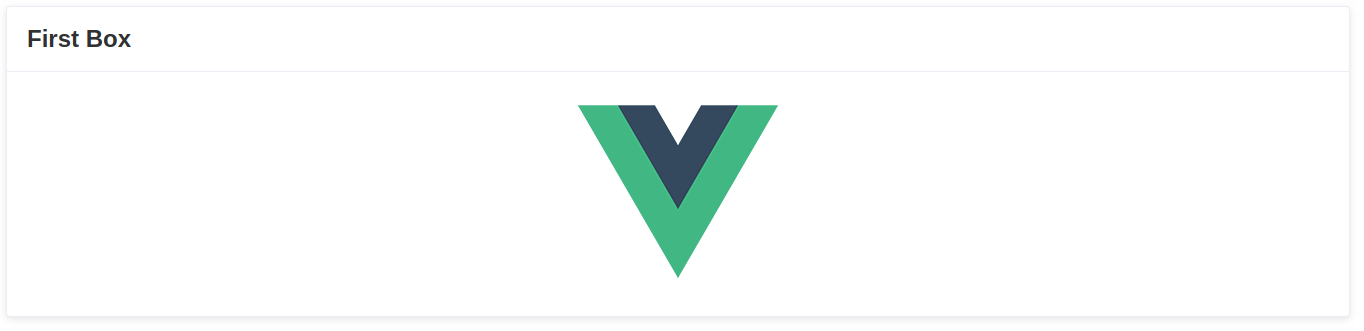
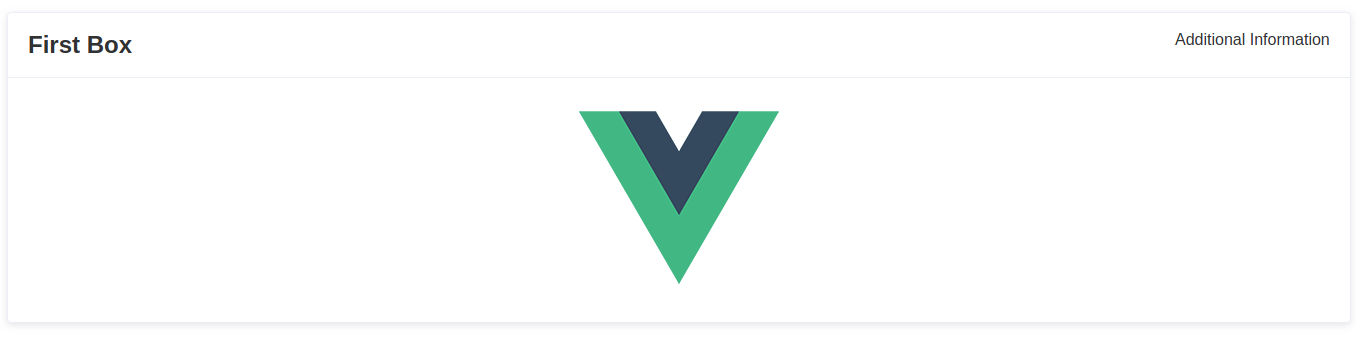
add slots to documentation

diff --git a/src/App.vue b/src/App.vue
@@ -3,6 +3,9 @@
     <VcAFrame title="Page Frame">
       <VcAColumn size="90%">
         <VcABox :first="true" title="First Box">
+          <template slot="header">
+            Additional Information
+          </template>
           <img alt="Vue logo" src="./assets/logo.png">
         </VcABox>
         <VcABox title="Second Box">

diff --git a/README.md b/README.md
@@ -26,6 +26,10 @@ You can use it that way (the `:` as prefix of an attribute is a vue.js syntax to
 | `title` | String | optional | *No default value* | You can pass an optional title. It will be used as a `<h1>` tag at the top-center position of the page. |
 | `hasContainer` | Boolean | optional | `false` | Sometimes it is required to wrap your [VcA columns](#vca-column) in additional HTML tags. For example, if you have an HTML `form` comprising elements on multiple columns. In that case you have to pass `true` as value of this parameter. |
 
+| Slot | Position | Description |
+|------|----------|-------------|
+| *default* | ![](./public/images/screenshot_mark_default.png) | Contains all [columns](#vca-column) of the page. |
+
 ### VcA Column
 Columns organize the [VcA boxes](#vca-box) in a vertical order. 
 
@@ -42,6 +46,10 @@ You can use it that way:
 |-----------|------|----------|---------|-------------|
 | `size` | String | optional | `30%` | If you want to change the default width, you can pass a new width using the `size` paramater. Values consist of a number and an unit. |
 
+| Slot | Position | Description |
+|------|----------|-------------|
+| *default* | *see example image* | Contains all [boxes](#vca-box) of the column. |
+
 ### VcA Box
 Boxes contain the main content of a Pool² page. They can be used for any kind of content and help you to cluster your
 information and functions. Please try to develop a small concept how you want to use these boxes, since the usage of boxes 
@@ -52,6 +60,9 @@ will influence the usability of your microservice and thus, of the whole Pool².
 You can use it that way (all attribute values are random examples):
 ```xml
 <VcABox :first="true" title="Headline" :expand="true" className="vca-blue-background vca-more-shadow">
+    <template slot="header">
+        ...
+    </template>
     ...
 </VcABox>
 ```
@@ -62,6 +73,12 @@ You can use it that way (all attribute values are random examples):
 | `title` | String | optional | *No default value* | You can pass an optional title. It will be used as a `<h2>` tag at the top-left corner of the box. |
 | `expand` | Boolean | optional | `false` | Indicates, size should expand to all unused space of the column. |
 | `className` | Boolean | optional | *No default value* | You can pass additional class names to apply your own CSS styles to the box. |
+
+| Slot | Position | Description |
+|------|----------|-------------|
+| *default* | ![](./public/images/box_mark_default.png) | Contains the main content |
+| header | ![](./public/images/box_mark_header.png) | Could be used for small additional information (e.g. tags) or important functions |
+
 
 ### VcA Info Box
 This box will be used to raise the users attention and inform the user about important facts.
@@ -75,6 +92,10 @@ You can use it that way:
 </VcAInfoBox>
 ```
 *There are no parameters for this widget*
+
+| Slot | Position | Description |
+|------|----------|-------------|
+| *default* | *see example image* | Contains the information to show. |
 
 ### VcA Filter Tag
 Tags can be used to display key-value structured information. For example, it is used in Drops to show the selected search
@@ -97,6 +118,10 @@ As an alternative you can also pass the `value` as attribute
 |-----------|------|----------|---------|-------------|
 | `field` | String | required | - | Will be used as the key (smaller font in the first line) |
 | `value` | String | optional | *No default value* | Will be used as the value (bigger font in the second line) |
+
+| Slot | Position | Description |
+|------|----------|-------------|
+| *default* | ![](./public/images/tags_mark_value.png) | Could be used to pass the value. |
 
 ## Installation
 
@@ -126,7 +151,12 @@ Inside your template:
   <div id="app">
     <VcAFrame title="VcA Page">
         <VcAColumn size="90%">
-            <VcABox title="First Box" :first="true">Example content</VcABox>
+            <VcABox title="First Box" :first="true">
+              <template slot="header">
+                Additional Information
+              </template>
+                Example content
+            </VcABox>
             <VcABox title="Second Box">
                 <div style="display:flex;flex-direction:row">
                     <VcAFilterTag field="Filter Tag" value="With Value" />
